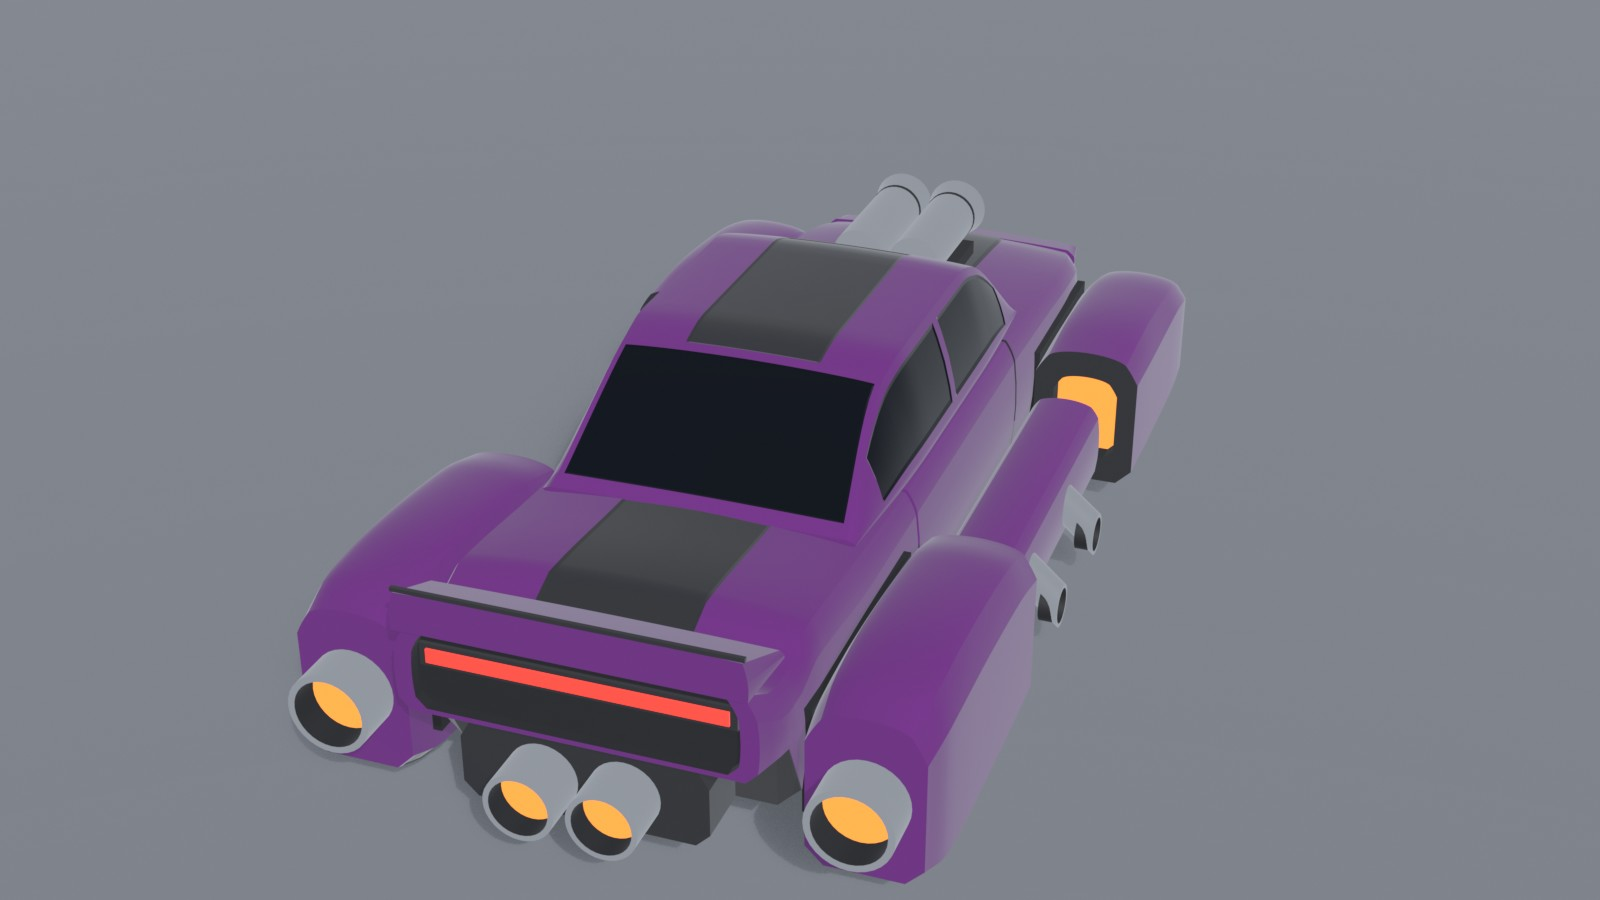
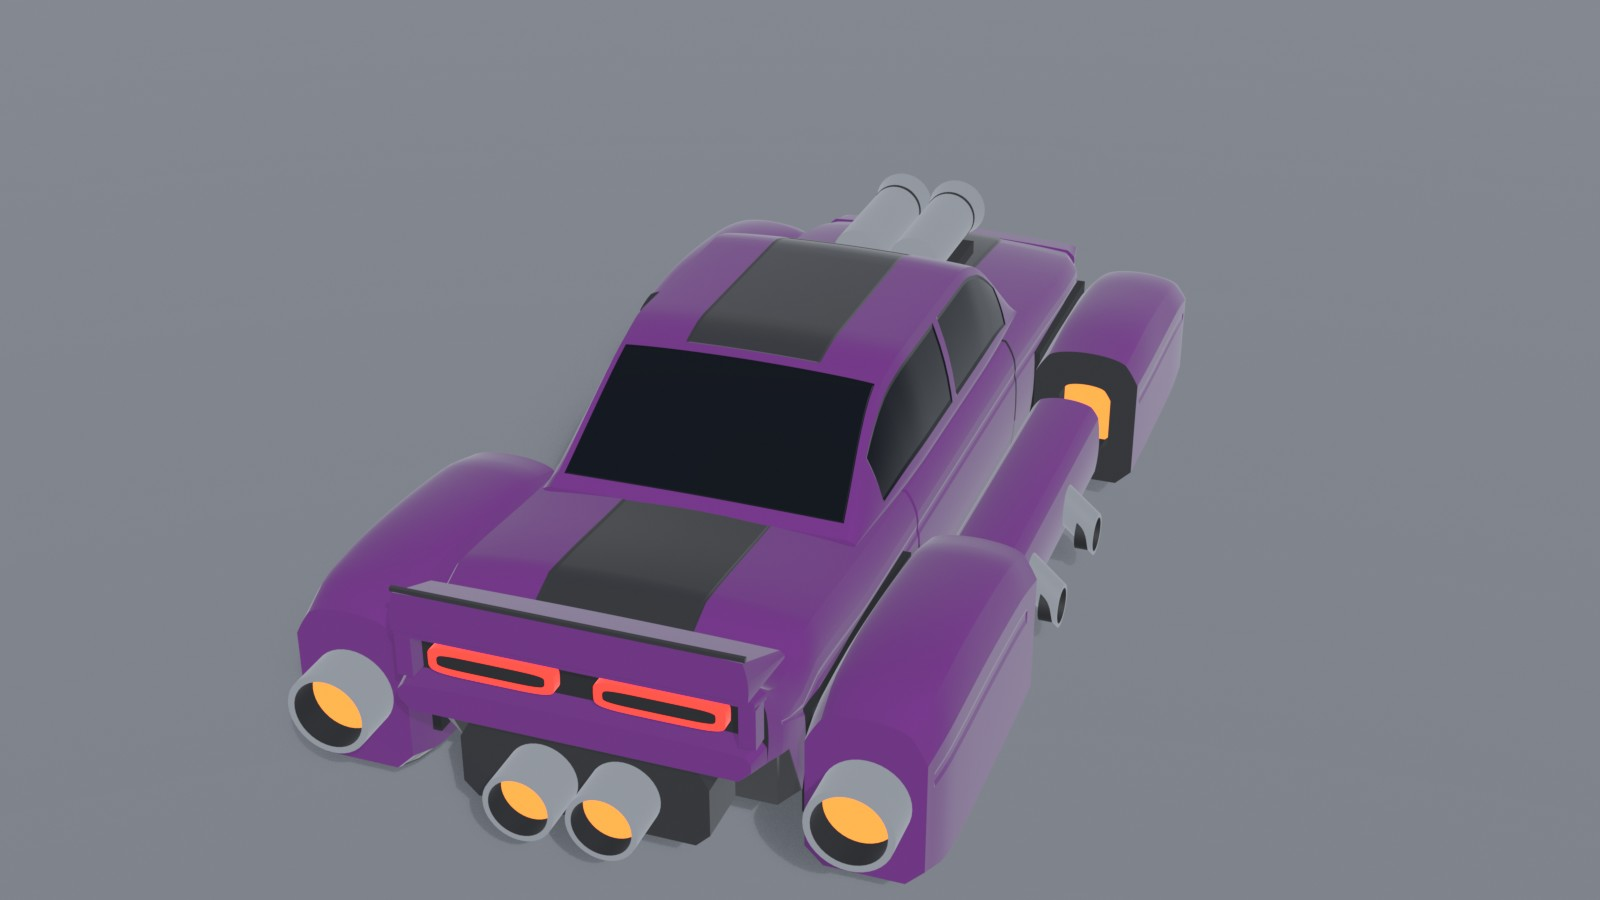
mesh: Brawler pass 7: Challenger-style rear (recessed panel, two ring lamps, body-colour bumper), character line, finer surfaces

Changed region(s): [[0.25, 0.6844, 0.5, 0.8711], [0.6875, 0.4356, 0.7188, 0.4978], [0.6562, 0.4044, 0.6875, 0.4356]]

diff --git a/scripts/exotic_category/categories/muscle/mesh/muscle_cars.py b/scripts/exotic_category/categories/muscle/mesh/muscle_cars.py
@@ -20,6 +20,10 @@ from exokit import Hull, Loft, R, box
 from musclekit import GAP, POD_FZ, POD_RZ, SEAM_F, SEAM_R, SIDE_F, SIDE_R, Z_F, Z_R
 
 OUT = os.path.join(os.path.dirname(os.path.abspath(__file__)), "previews")
+# One crisp character line runs the length of the body side: a fine groove at the same height on the nose,
+# the tub and the tail (ring range on the body side), and one on each pod flank.
+LINE = (2.78, 2.9)
+POD_LINE = (2.72, 2.86)
 SLOTS = ("COCKPIT", "NOSE", "TAIL", "FPOD", "RPOD", "STAB", "BOOST", "WING")
 
 
@@ -81,7 +85,8 @@ def flange(z0, z1, y0, y1):
 
 def tub(doors=()):
     """The body between the two seams. Every cockpit uses the same section. doors: optional shut lines."""
-    regs = [R(Z_F + GAP, Z_R - GAP, 0.0, 2.0, "secondary", 0.02)]
+    regs = [R(Z_F + GAP, Z_R - GAP, 0.0, 2.0, "secondary", 0.02),
+            R(Z_F + GAP, Z_R - GAP, LINE[0], LINE[1], "primary", 0.025)]
     regs += [R(z, z + 0.14, 2.05, 3.95, "detail", 0.03) for z in doors]
     Hull([(Z_F, SEAM_F), (Z_R, SEAM_R)]).build("tub", "primary", t0=Z_F + GAP, t1=Z_R - GAP, regions=regs)
     Hull([(Z_F - 0.08, SEAM_F), (Z_R + 0.08, SEAM_R)]).build("liner", "detail", scale=0.96)
@@ -118,6 +123,7 @@ def f_nose():
                  (Z_F, SEAM_F)], **SEAM_F)
     nose.build("skin", "primary", t1=Z_F - GAP, caps=(False, False), regions=[
         R(-12.2, Z_F - GAP, 0.0, 2.0, "secondary", 0.02),
+        R(-11.6, Z_F - GAP, LINE[0], LINE[1], "primary", 0.025),
         R(-12.0, Z_F - GAP, 5.15, 6.0, "secondary", -0.07),   # raised bonnet bulge, in the stripe colour
         R(-9.6, -5.9, 5.5, 6.0, "detail", 0.1)])
     nose.cap("grilleback", "min", "detail")
@@ -141,8 +147,9 @@ def f_nose():
 
 
 def f_pod_regions(z0, z1):
-    """Engine fender, standard trim: clean body colour over a black rocker. Nothing else."""
-    return [R(z0 + 0.15, z1 - 0.15, 1.0, 2.0, "secondary", 0.02)]
+    """Engine fender, standard trim: clean body colour over a black rocker, with one character line."""
+    return [R(z0 + 0.15, z1 - 0.15, 1.0, 2.0, "secondary", 0.02),
+            R(z0 + 0.7, z1 - 0.3, POD_LINE[0], POD_LINE[1], "primary", 0.025, side=1)]
 
 
 def f_fpod():
@@ -154,7 +161,7 @@ def f_fpod():
                 (POD_FZ, SIDE_F)], **SIDE_F)
     pod.build("skin", "primary", mirror=True, caps=(True, False),
               regions=f_pod_regions(-12.7, POD_FZ))
-    pod.throat("noz", "max", lip="secondary", back="thrust", scale=0.62, depth=0.5, mirror=True)
+    pod.throat("noz", "max", lip="secondary", back="thrust", scale=0.5, depth=0.6, mirror=True)
     for i, x in enumerate((4.9, 5.86)):
         halo(f"halo{i}", x, 0.82, -13.0, 0.42)
     flange(-11.2, -6.4, -0.3, 1.9)
@@ -187,17 +194,29 @@ def f_stab():
 
 
 def f_tail():
-    """Short deck that climbs to a high square tail (drag-car rake), with one full-width light bar."""
+    """Short deck that climbs to a high square tail. As on the real car the tail face is a recessed black
+    panel under the deck lip, holding two ring lamps, above a body-colour bumper."""
     K.begin("F", "TAIL")
     tail = Hull([(Z_R, SEAM_R), (6.5, dict(yt=3.35)), (9.8, dict(yt=3.55, ys=2.7)), (10.6, dict(yb=-0.3)),
                  (11.3, dict(yb=1.4, rb=0.25)),
-                 (12.4, dict(w=3.7, yb=1.5, yt=3.62, ys=2.9, rb=0.25, tum=0.3, drop=0.2))], **SEAM_R)
+                 (12.0, dict(w=3.72, yb=1.5, yt=3.6, ys=2.85, rb=0.25, tum=0.28, drop=0.2))], **SEAM_R)
     tail.build("skin", "primary", t0=Z_R + GAP, caps=(False, False), regions=[
-        R(Z_R + GAP, 12.4, 0.0, 2.0, "secondary", 0.02),
-        R(6.2, 12.4, 5.15, 6.0, "secondary", 0.02)])
-    tail.throat("fascia", "max", lip="primary", wall="detail", back="detail", scale=0.9, depth=0.25)
-    box("lightbar", (0, 2.75, 12.22), (6.2, 0.3, 0.14), "lights_red")
-    box("lightbarframe", (0, 2.75, 12.19), (6.5, 0.5, 0.1), "secondary")
+        R(Z_R + GAP, 12.0, 0.0, 2.0, "secondary", 0.02),
+        R(Z_R + GAP, 11.6, LINE[0], LINE[1], "primary", 0.025),
+        R(6.2, 12.0, 5.15, 6.0, "secondary", 0.02)])
+    tail.cap("panel", "max", "detail")
+    # deck lip above and bumper below stand behind the panel, with a post at each end: the lamps sit in a recess
+    Hull([(12.0, dict(w=3.72, yb=3.12, yt=3.6, ys=3.3)), (12.45, dict(w=3.66, yb=3.2, yt=3.56, ys=3.34))], rb=0.04,
+         tum=0.28, drop=0.18, wcf=0.72, d2=0.05, crown=0.05).build("decklip", "primary", regions=[
+             R(12.0, 12.45, 5.15, 6.0, "secondary", 0.0)])
+    Hull([(12.0, dict(w=3.72, yb=1.5, yt=2.32, ys=2.1)), (12.55, dict(w=3.62, yb=1.62, yt=2.26, ys=2.05))], rb=0.25,
+         tum=0.12, drop=0.08, wcf=0.7, d2=0.0, crown=0.02).build("bumper", "primary")
+    box("post", (3.5, 2.72, 12.2), (0.34, 0.86, 0.42), "primary", mirror=True)
+    # two ring lamps: a red rounded rectangle with a dark centre
+    Loft([(12.05, {}), (12.3, {})], cx=1.72, w=1.32, yb=2.42, yt=3.02, nt=5, nb=5, yw=0.5).build(
+        "lamp", "lights_red", mirror=True)
+    Loft([(12.28, {}), (12.33, {})], cx=1.72, w=1.13, yb=2.58, yt=2.86, nt=5, nb=5, yw=0.5).build(
+        "lampcore", "detail", mirror=True)
 
 
 def f_boost():

diff --git a/scripts/exotic_category/categories/muscle/mesh/musclekit.py b/scripts/exotic_category/categories/muscle/mesh/musclekit.py
@@ -48,6 +48,11 @@ def _material(car, ch):
 
 K._material = _material
 
+# Finer sections than Exotic, so highlights run smoothly along the body: ring segments per profile span,
+# and points round a tube.
+K.Hull.M = 6
+K.Loft.N = 40
+
 # Preview paint per car letter. Players repaint primary, secondary and detail in game.
 K.PAINT = {
     "A": {"primary": (0.80, 0.78, 0.70), "secondary": (0.02, 0.02, 0.024)},   # 01 El Camino: cream, black
